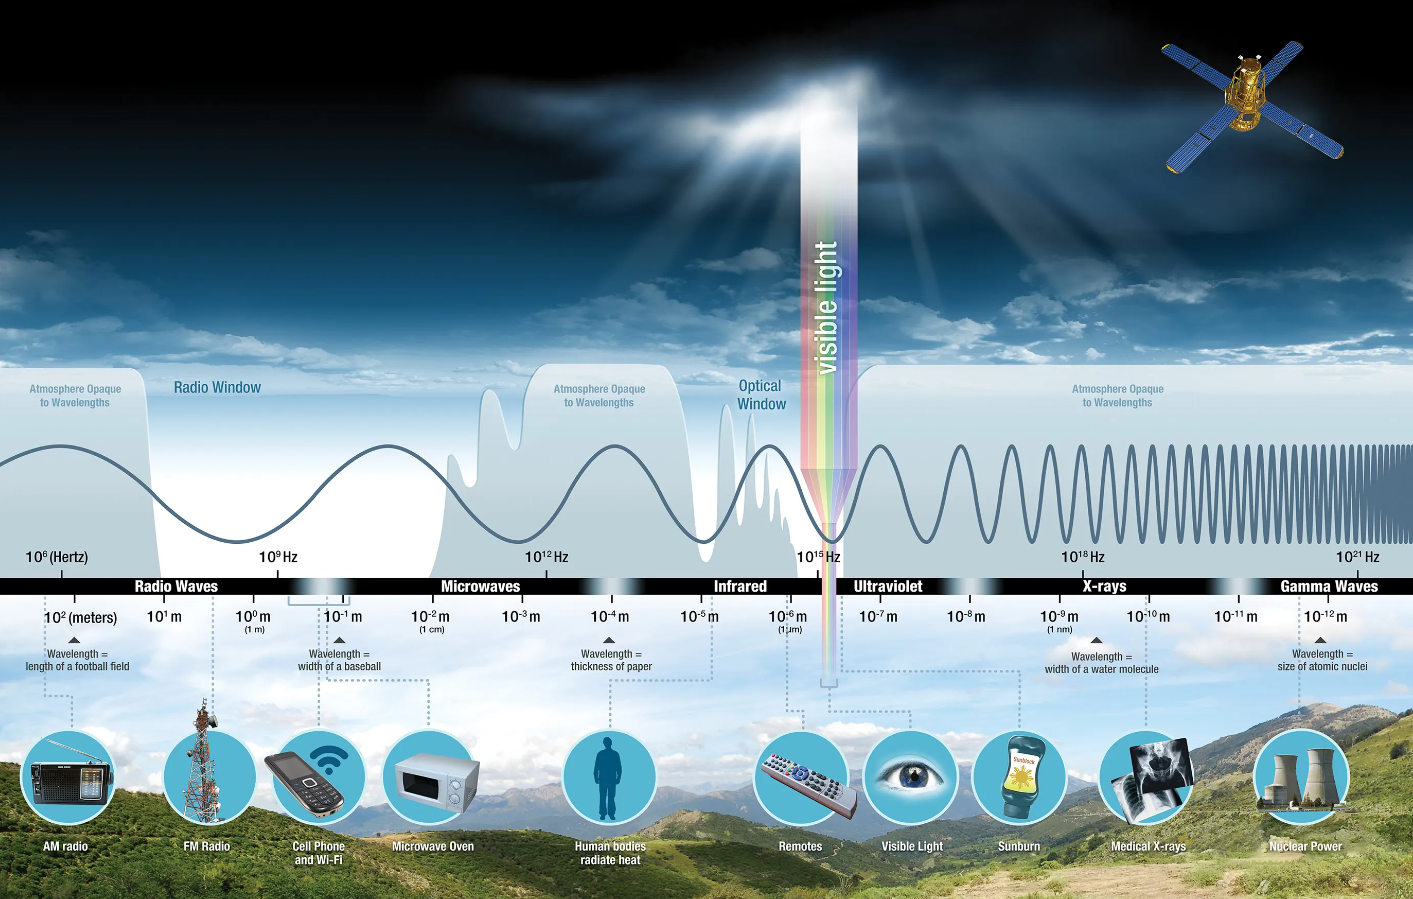
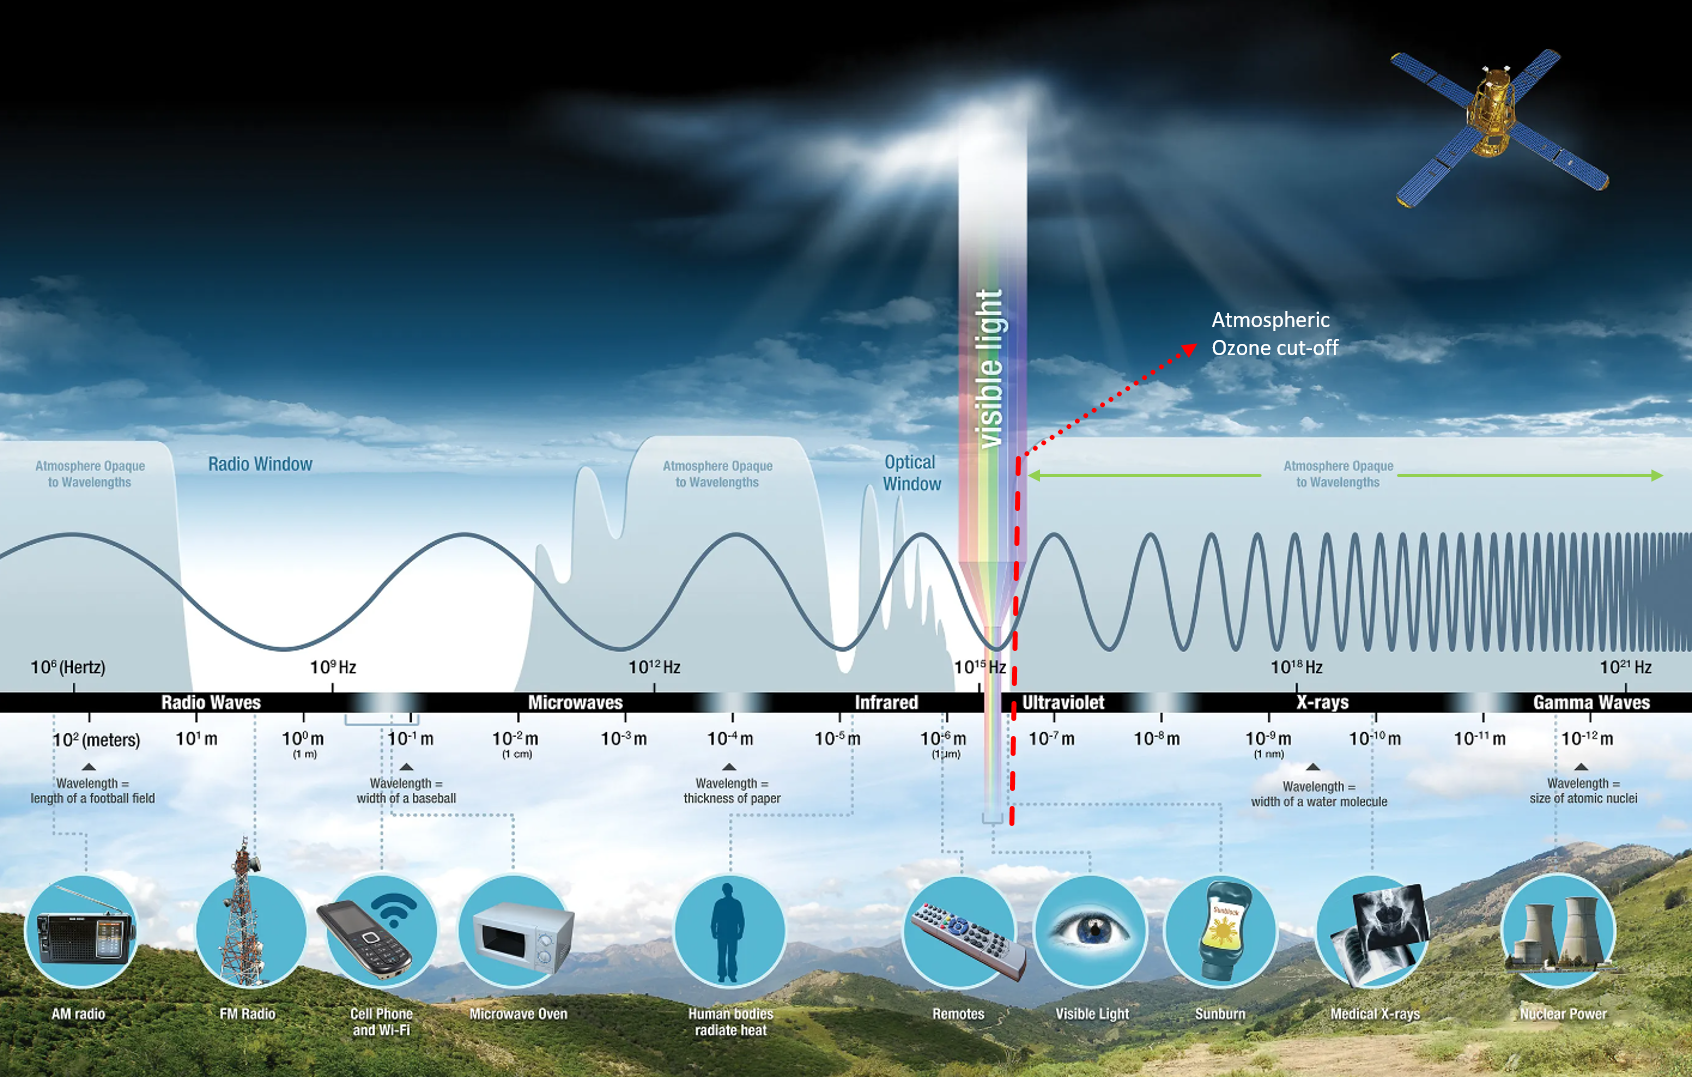
Python portfolio page updated

diff --git a/electromagnetic-waves.html b/electromagnetic-waves.html
@@ -5,7 +5,7 @@
     <meta charset="utf-8">
     <meta content="width=device-width, initial-scale=1.0" name="viewport">
 
-    <title>OLCI</title>
+    <title>EM-Waves</title>
     <meta content="" name="description">
     <meta content="" name="keywords">
 
@@ -134,7 +134,7 @@
                         <div class="portfolio-details-slider swiper">
                             <div class="swiper-wrapper align-items-center">
                                 <figure>
-                                    <img src="assets/img/remote-sensing/emt1.png" alt="" style="max-width: 70%; max-height: 50%;">
+                                    <img src="assets/img/remote-sensing/emt1.png" alt="" style="max-width: 80%; max-height: auto;">
                                     <figcaption></figcaption>
                                 </figure>
                             </div>
@@ -167,15 +167,15 @@
                 <br>
                 <p>Although we see sunlight as a uniform or homogeneous colour, it is actually composed of various wavelengths of radiation in primarily the ultraviolet, visible and infrared portions of the spectrum.</p>
                 <ul>
-                    <li><strong>UV: </strong>For most purposes, the ultraviolet or UV portion of the spectrum has the shortest
+                    <li><strong>UV (0.01 µm - 0.4 µm): </strong>For most purposes, the ultraviolet or UV portion of the spectrum has the shortest
                         wavelengths which are practical for remote sensing. Some Earth surface materials, 
                         primarily rocks and minerals, fluoresce or emit visible light when illuminated by UV radiation.</li>
                     <li><strong>Visible (0.4 - 0.7 µm): </strong>The light which our eyes - our "remote sensors" - can detect is part of the visible spectrum.</li>
                     <li><strong>Infrared (IR) (0.7 - 100  µm):</strong> The next portion of the spectrum of interest is the infrared (IR) region.
                         The infrared region can be divided into two categories based on their radiation properties -
                         <ul>
-                            <li><strong>Reflected IR</strong>: Radiation in the reflected IR region is used for remote sensing purposes in ways very similar to radiation in the visible portion. The reflected IR covers wavelengths from approximately 0.7 µm to 3.0 µm.</li>
-                            <li><strong>Emitted or thermal IR</strong>: The thermal IR region is quite different than the visible and reflected IR portions, as this energy is essentially the radiation that is emitted from the Earth's surface in the form of heat. The thermal IR covers wavelengths from approximately 3.0 µm to 100 µm.</li>
+                            <li><strong>Reflected IR (0.7 µm to 3.0 µm):</strong> Radiation in the reflected IR region is used for remote sensing purposes in ways very similar to radiation in the visible portion. The reflected IR covers wavelengths from approximately 0.7 µm to 3.0 µm.</li>
+                            <li><strong>Emitted or thermal IR (3.0 µm to 100 µm):</strong> The thermal IR region is quite different than the visible and reflected IR portions, as this energy is essentially the radiation that is emitted from the Earth's surface in the form of heat. The thermal IR covers wavelengths from approximately 3.0 µm to 100 µm.</li>
                         </ul> 
                     </li>
                     <li><strong>Microwave region (1 mm - 1 m):</strong>The portion of the spectrum of more recent interest to remote sensing is the microwave region.</li>
@@ -255,7 +255,8 @@
                       <td>Produced by nuclear and other high energy processes. Can penetrate up to meters in water.</td>
                     </tr>
                   </table>
-                  where,
+
+                  <p>where, each units in meters are as follows:</p>
 
                   <table>
                     <tr>

diff --git a/portfolio-details.html b/portfolio-details.html
@@ -154,25 +154,27 @@
         <div class="row gy-4">
           <div class="col-lg-8">
             <div class="portfolio-details-slider swiper">
-            <h2>Basics of Python</h2>
-            <ul style="list-style-type: disc; margin-left: 30px;">
-              <li>Welcome to my Python Programming repository, your gateway to mastering one of the most versatile and widely-used programming languages. 
-                This collection of Jupyter notebooks and tutorials is thoughtfully structured to take you on a journey from Python basics to more advanced 
-                topics, making your learning experience both enriching and enjoyable.</li>
-              <li>
-                Explore my comprehensive <a href="https://github.com/arunp77/Python-programming" target="_blank">GitHub repository</a>, 
-                where I share my passion for Python programming and provide in-depth tutorials on essential Python concepts and powerful libraries.
-              <li>From the fundamentals of Python syntax, including variables, data types, functions, and control flow, to more advanced topics like
-                NumPy, Pandas, Seaborn, Matplotlib, Plotly, and scikit-learn, you'll find a wealth of knowledge to help you excel in Python 
-                programming.</li>
-              <li>Dive into detailed guides, practice assignments, and real-world examples that cover everything from data manipulation 
-                and visualization to machine learning. Whether you're a beginner taking your first steps with Python or an experienced coder looking 
-                to expand your skills, my GitHub repository has something for everyone. </li>
-              <li>Don't miss out on the chance to elevate your Python expertise and enhance your programming journey. Explore the files and 
-                tutorials below to start your Python adventure today.</li>
-            </ul>
+              <h2>Basics of Python</h2>
+              <ul style="list-style-type: disc; margin-left: 30px;">
+                <li>Welcome to my Python Programming repository, your gateway to mastering one of the most versatile and widely-used programming languages. 
+                  This collection of Jupyter notebooks and tutorials is thoughtfully structured to take you on a journey from Python basics to more advanced 
+                  topics, making your learning experience both enriching and enjoyable.</li>
+                <li>
+                  Explore my comprehensive <a href="https://github.com/arunp77/Python-programming" target="_blank">GitHub repository</a>, 
+                  where I share my passion for Python programming and provide in-depth tutorials on essential Python concepts and powerful libraries.
+                <li>From the fundamentals of Python syntax, including variables, data types, functions, and control flow, to more advanced topics like
+                  NumPy, Pandas, Seaborn, Matplotlib, Plotly, and scikit-learn, you'll find a wealth of knowledge to help you excel in Python 
+                  programming.</li>
+                <li>Dive into detailed guides, practice assignments, and real-world examples that cover everything from data manipulation 
+                  and visualization to machine learning. Whether you're a beginner taking your first steps with Python or an experienced coder looking 
+                  to expand your skills, my GitHub repository has something for everyone. </li>
+                <li>Don't miss out on the chance to elevate your Python expertise and enhance your programming journey. Explore the files and 
+                  tutorials below to start your Python adventure today.</li>
+              </ul>
             </div>
+            <hr>
           </div>
+        
 
           <div class="col-lg-4">
             <div class="portfolio-info">
